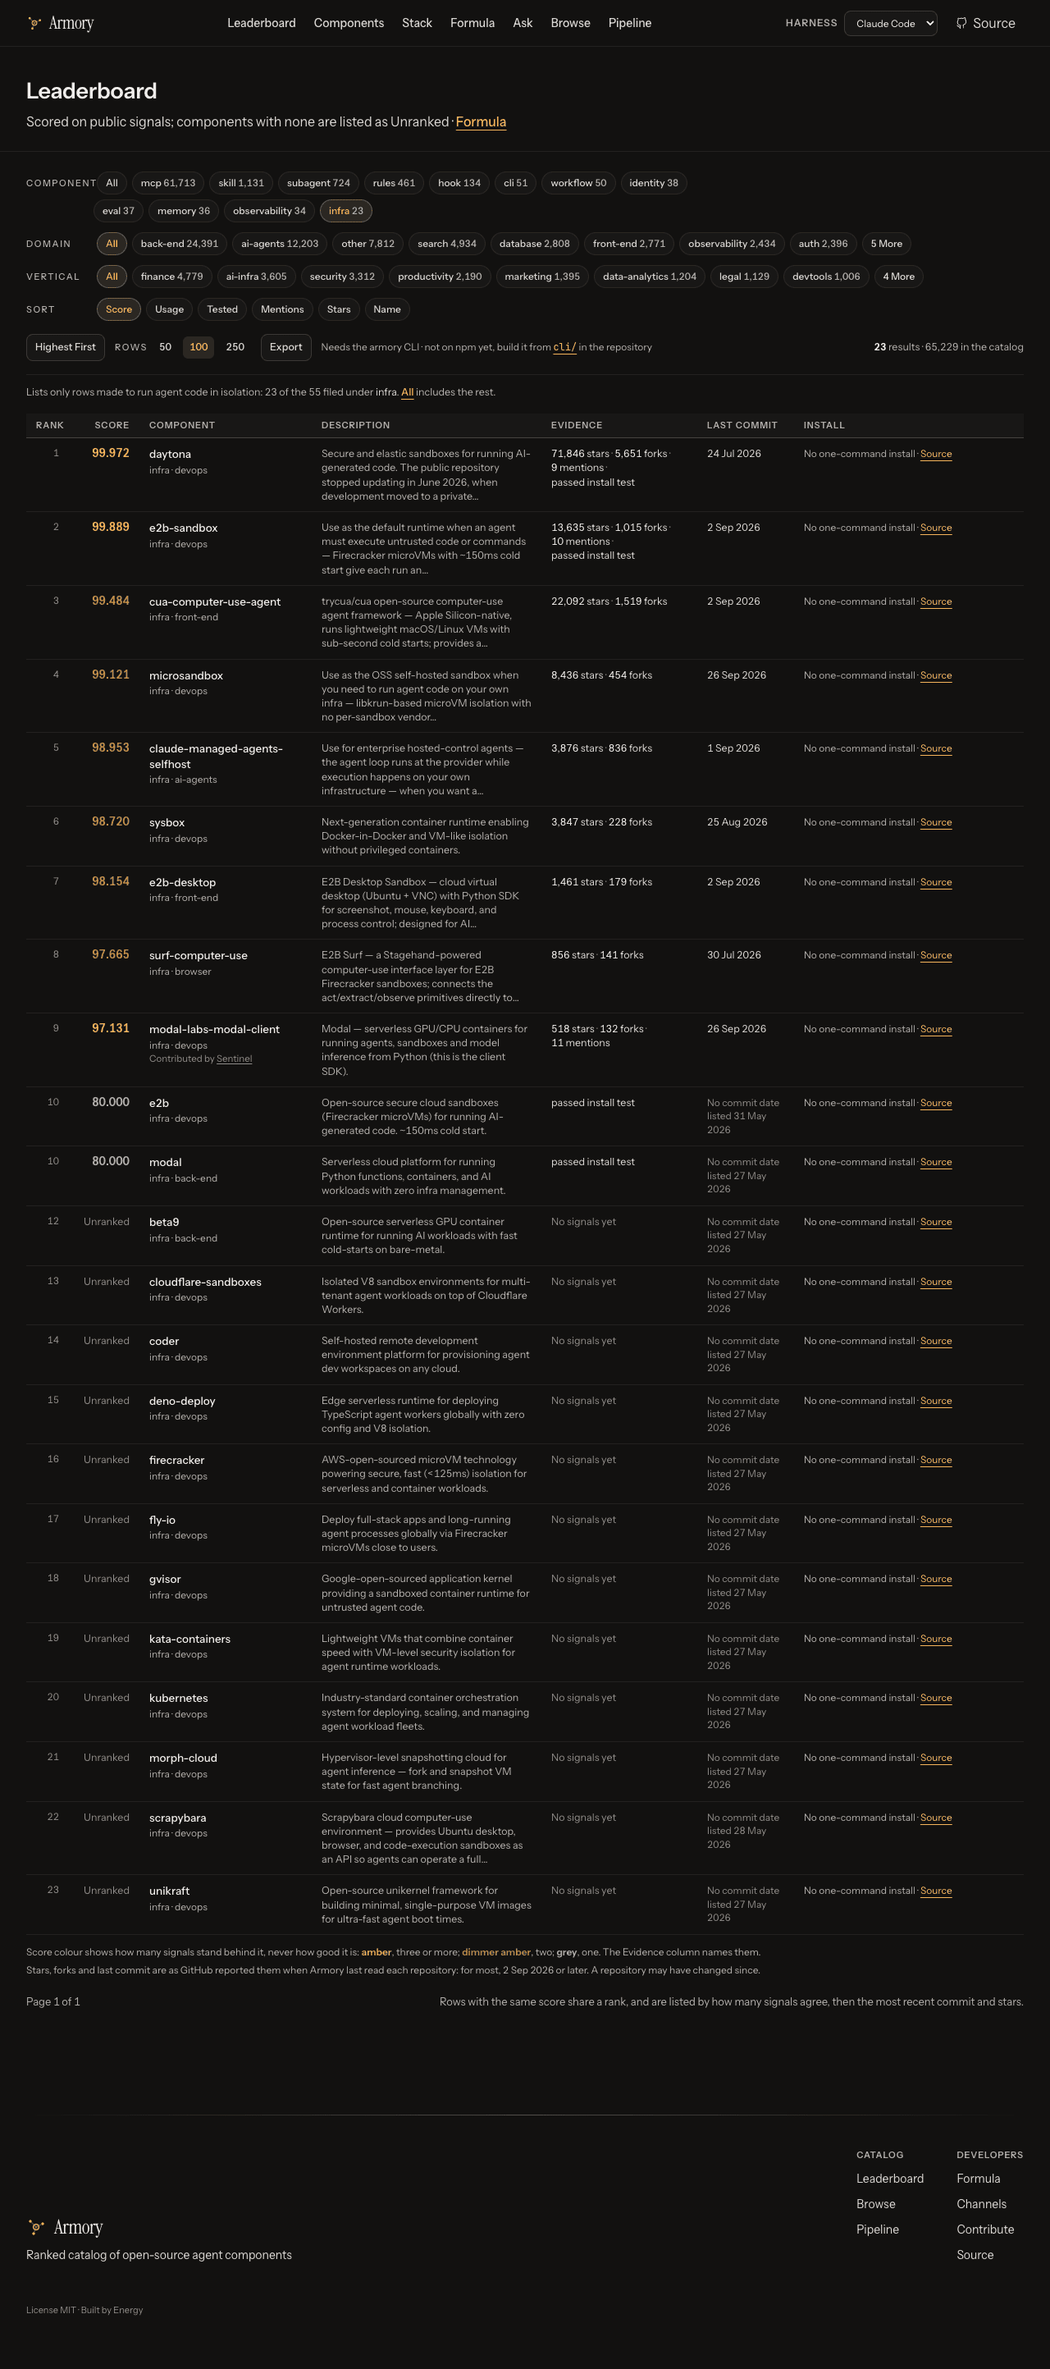
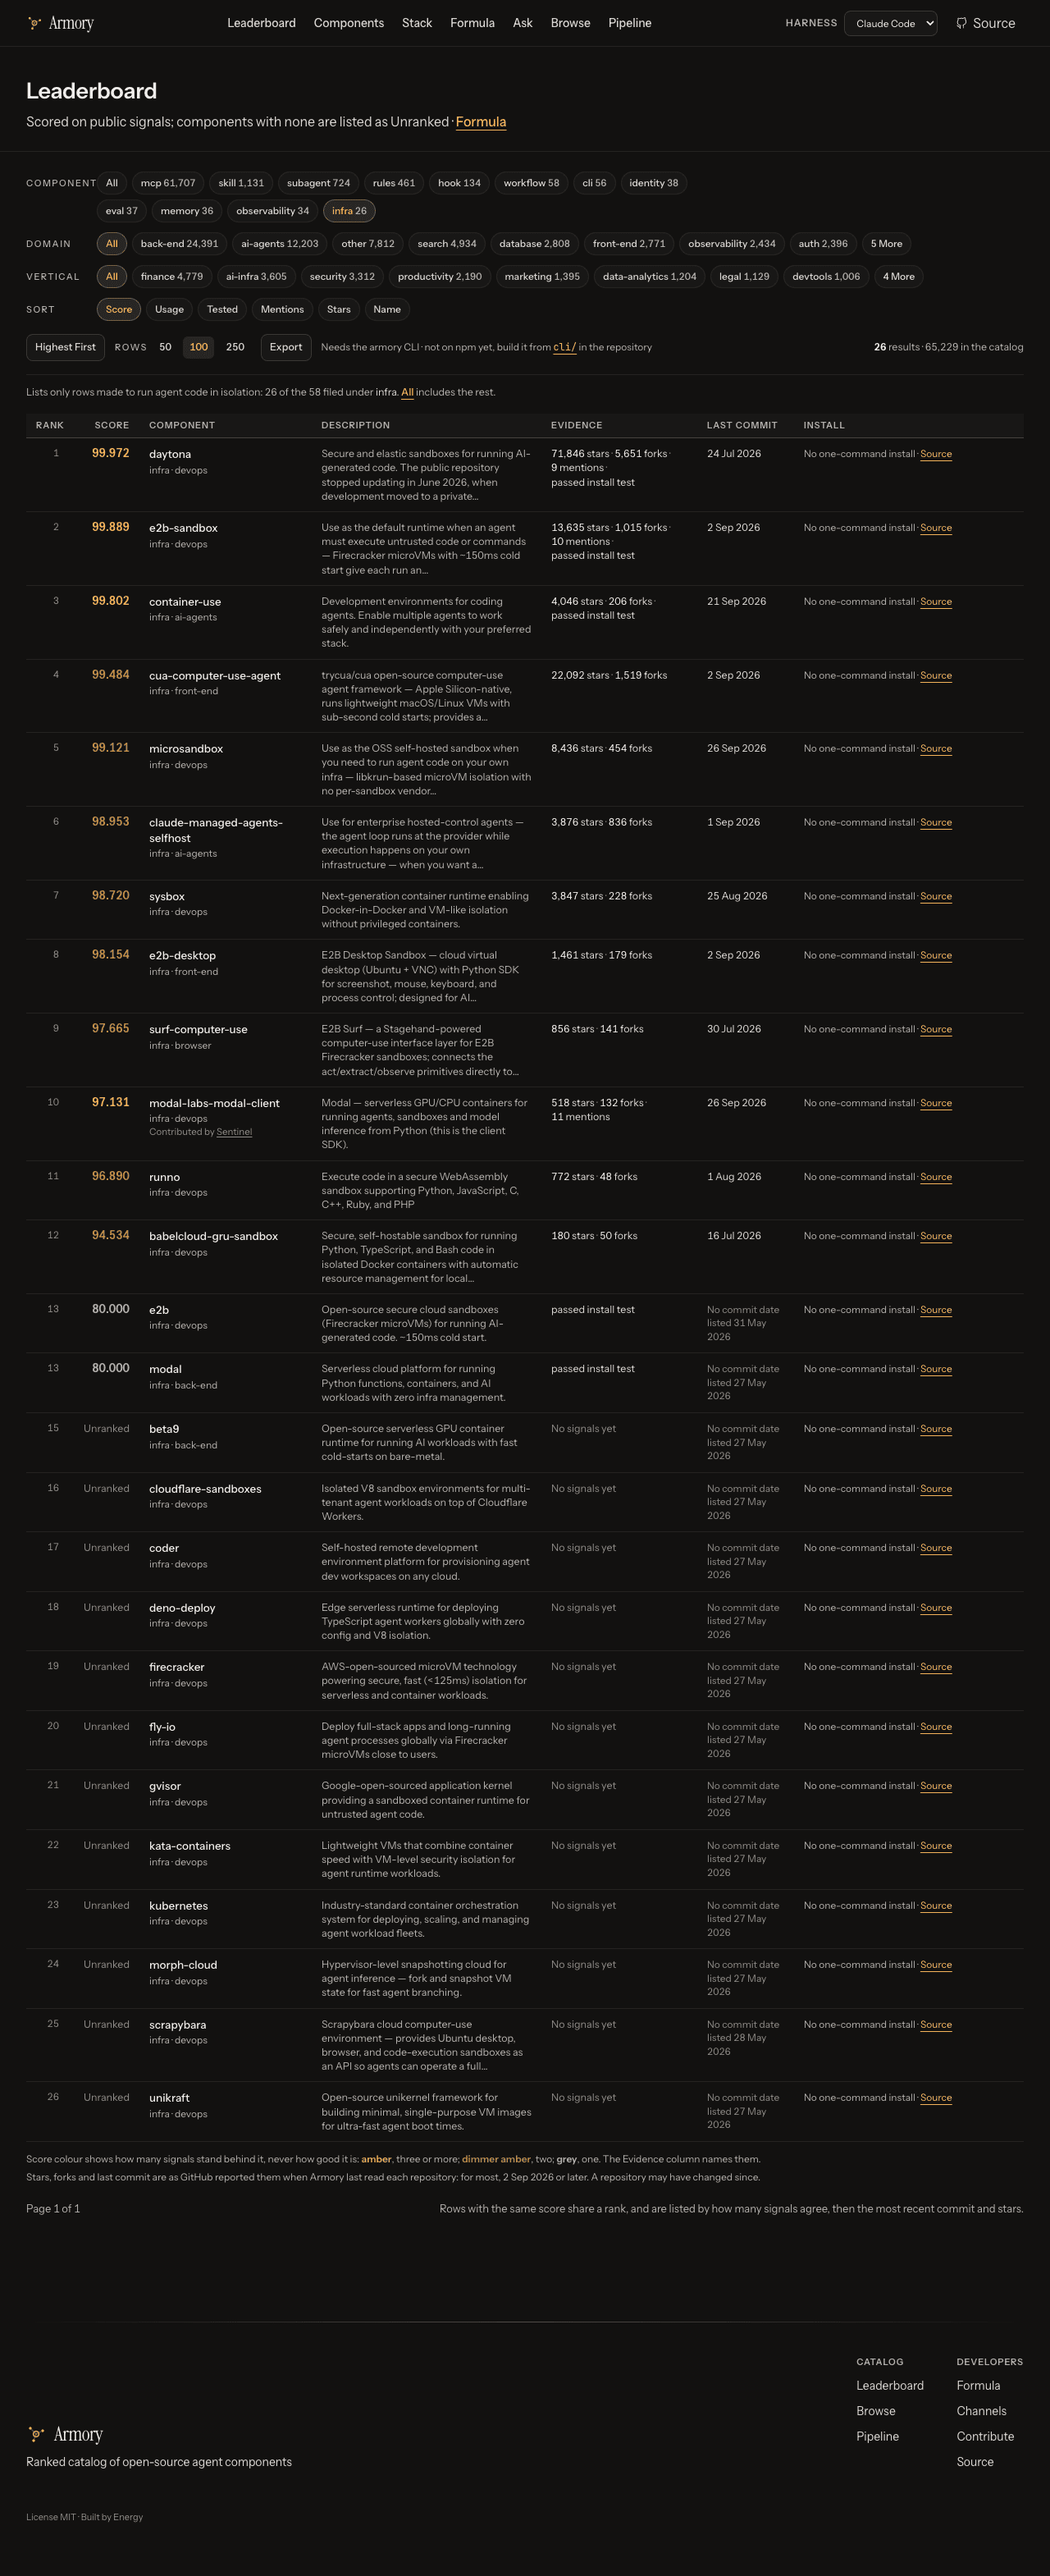
docs(cp138): shelf moves in the shelf-fit doc; PR E screenshots after the fixes
- docs/SHELF-FIT-PROPOSAL.md: the moves with a reason each, the rows left where they are,
  the counts after the moves, shelf names, and the top-pick guard.
- 41 screenshots at 390, 768 and 1280 in docs/ui-2026-09-26/shots/pr-e/ (23 replaced,
  11 new, 7 unchanged), all read: no horizontal overflow, no console errors, no failed
  requests, every icon 200.

Claude-Session: https://claude.ai/code/session_018GNDsMhELuUvtAoLZ61XYZ

diff --git a/docs/SHELF-FIT-PROPOSAL.md b/docs/SHELF-FIT-PROPOSAL.md
@@ -158,6 +158,14 @@ filter lists. The shelves, /c, /stack, /pipeline, the leaderboard, the detail pa
 | Tools | 147 to 51 | 134 to 48 | gh 5 to 1 · playwright-cli 18 to 9 · crawl4ai 19 to 10 |
 | Dispatch | 719 to 50 | 60 to 9 | n8n-io-n8n 1 to 1 · pocketflow 8 to 3 |
 
+With the moves below (PR E, second push), the same shelves list:
+
+| Shelf | Rows listed, of those filed | Ranked rows | Picks, rank on the shelf |
+|---|---|---|---|
+| Sandbox | 26 of 58 | 14 | daytona 1 · e2b-sandbox 2 · microsandbox 5 (container-use is 3) |
+| Tools | 56 of 142 | 53 | gh 1 · playwright-cli 9 · crawl4ai 10 |
+| Dispatch | 58 of 727 | 18 | n8n-io-n8n 1 · pocketflow 9 (LangGraph, ruflo, AutoGen, Orca, CrewAI, the OpenAI Agents SDK and Symphony are 2 to 8) |
+
 What changed from the proposal's words, after reading each shelf's first 50 rows:
 
 - **Sandbox** also accepts "VMs", the short form of "virtual machines", which brings in cua, morph-cloud
@@ -177,12 +185,60 @@ system-dynamics-modeler ("feedback loops").
 
 A row that does not fit keeps its component, score and detail page, and stays in search, Browse and the
 unfiltered leaderboard. Each gated shelf says in one line that it lists only rows made for its job and
-links Browse for all of them; /pipeline counts the rest, so its numbers still add up to the catalog. On
+how many of the rest are in Browse, which it links; /pipeline counts the rest, so its numbers still add up to the catalog. On
 the detail page of such a row, Alternatives come from every row filed beside it and name no shelf.
 
 `ingest/test-gate.mjs` now also fails, in CI and in the nightly run, when a /stack pick is not listed on
-its shelf or sits below the shelf's top row without a `reason`.
+its shelf or sits below the shelf's top row without a `reason`, and, since the second push, when a pick at
+the top still has one: no page shows a reason there, so it goes stale unseen (superpowers and promptfoo
+each had one).
 
-Still not done: re-typing. Orchestration frameworks filed under `clis-tools` (ruflo, CrewAI, AutoGen,
-LangGraph, the OpenAI Agents SDK) belong on Dispatch, and container-use belongs on Sandbox; the gate
-leaves them on no shelf until someone moves their files.
+Re-typing, done as moves (PR E, second push). Orchestration frameworks filed under `clis-tools` (ruflo,
+CrewAI, AutoGen, LangGraph, the OpenAI Agents SDK) belong on Dispatch, and container-use belongs on Sandbox;
+the gate had left them on no shelf. `SHELF_MOVES` in `lib/rank.mjs` lists a row, keyed `type/name`, on the
+shelf of the job it does. Only its component changes: its `type`, and so its address `/e/<type>/<name>`,
+stays, and so do the links Sentinel's notes and other sites hold. A moved row fits its new shelf by
+decision. Moving the files instead would change those addresses, and `ingest/catalog.mjs` keeps only the
+frontmatter fields it names, so a new `shelf:` field would need the catalog rebuilt and every sync to
+carry it.
+
+| Row, filed under | Listed on | Why (from its description and repository) |
+|---|---|---|
+| ruflo, `clis-tools` | Dispatch | deploys and coordinates multi-agent swarms |
+| crewaiinc-crewai, `clis-tools` | Dispatch | "framework for orchestrating role-playing, autonomous AI agents" |
+| microsoft-autogen, `clis-tools` | Dispatch | a framework for multi-agent applications (now in maintenance mode) |
+| langchain-ai-langgraph, `clis-tools` | Dispatch | a low-level orchestration framework for agents |
+| openai-openai-agents-python, `clis-tools` | Dispatch | a framework for multi-agent workflows |
+| sudocode, `clis-tools` | Dispatch | a lightweight agent orchestration system |
+| stablyai-orca, `clis-tools` | Dispatch | runs a fleet of coding agents side by side, each in its own worktree |
+| praisonai, `mcps` | Dispatch | a multi-agent framework |
+| bernstein, `mcps` | Dispatch | agent orchestration with a deterministic scheduler |
+| container-use, `clis-tools` | Sandbox | gives each coding agent a fresh container on its own git branch |
+| runno, `mcps` | Sandbox | runs code in a WebAssembly sandbox |
+| babelcloud-gru-sandbox, `mcps` | Sandbox | GBOX: self-hostable environments where agents run code and operate desktop and mobile devices |
+| ccoutputstyles, `workflows` | Tools | a command-line tool for Claude Code output styles |
+| snyk-cli, `mcps` | Tools | the Snyk command-line tool |
+| cocoindex-code, `mcps` | Tools | a code search command-line tool |
+
+The six `mcps` rows came from MCP registry listings. Each project is first the thing its new shelf lists, and
+its MCP server is one way in: Runno's is one of four packages, cocoindex-code recommends its CLI over its
+server, PraisonAI and Bernstein are frameworks that also serve MCP, and the Snyk CLI's README never mentions
+MCP.
+
+agnix and claude-task-master were already Tools rows and are command-line tools whose descriptions never
+say so; they join the allow-list. The Dispatch deny-list gains `crewai`, a sample agent filed under
+`workflows` that is not CrewAI.
+
+Left where they are, after reading each repository: crystal (deprecated in February 2026 for a successor
+app), grafbase (the platform was sunset after an acquisition), agno (a framework and runtime for agent
+platforms, closer to a runtime than to routing), cc-tools (now a status line and hooks kit, so Hooks or
+Observability, not Tools), MCP servers that only reach a sandbox or an orchestrator run elsewhere (they are
+MCP servers), mcps/container-use (a directory listing of the same project, which is on Sandbox under
+`clis-tools`), and the browser tools (browser-use, Stagehand, Steel, Browserless). Whether browser tools go
+on Tools or on a shelf of their own is a curation call: browser-use would top Tools and reopen its pick.
+
+`--component` and the MCP tools' `component` now also take a shelf name: `SHELVES` in `lib/rank.mjs` maps
+each /stack slug to its components (a test keeps it equal to `stack.json`), so `armory rank -c tools`,
+`rank_components {component: "dispatch"}` and `/api/rank?component=sandbox` list those shelves. `tools`
+returned 0 rows before, because it named the empty `tool` component. A component name still lists only its
+own rows, so a leaderboard chip's count holds. Search takes the same names.
